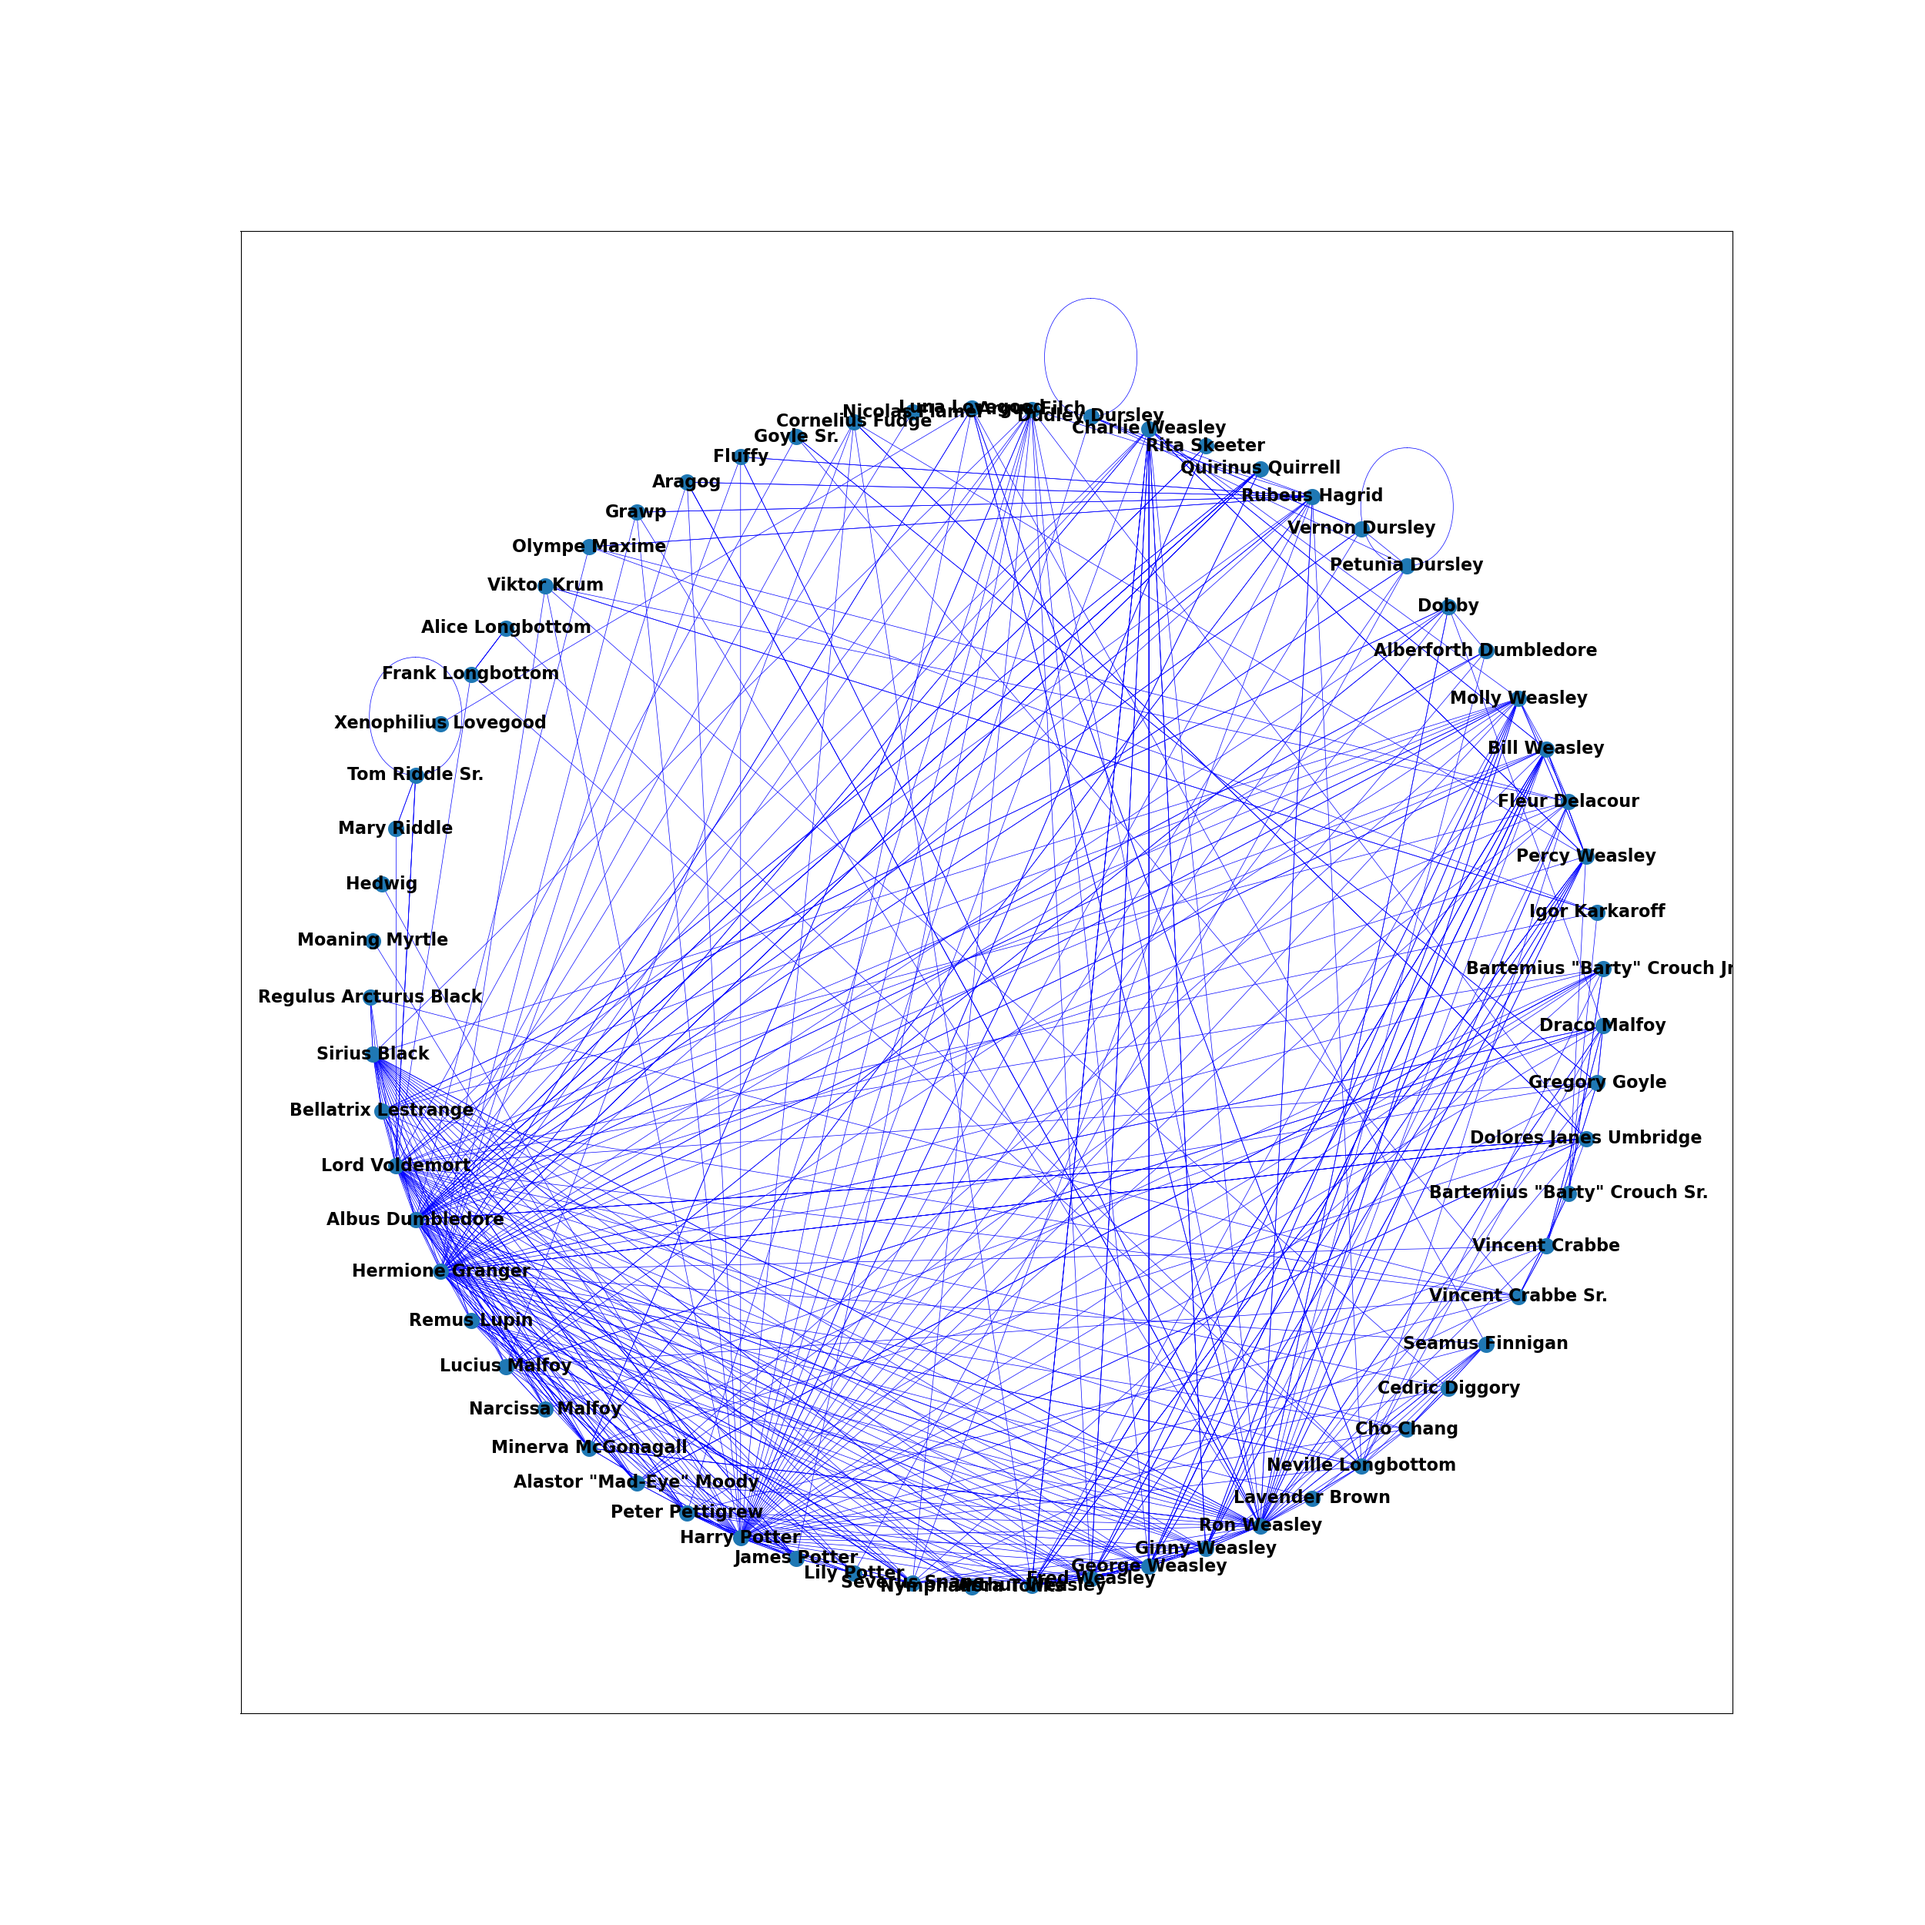
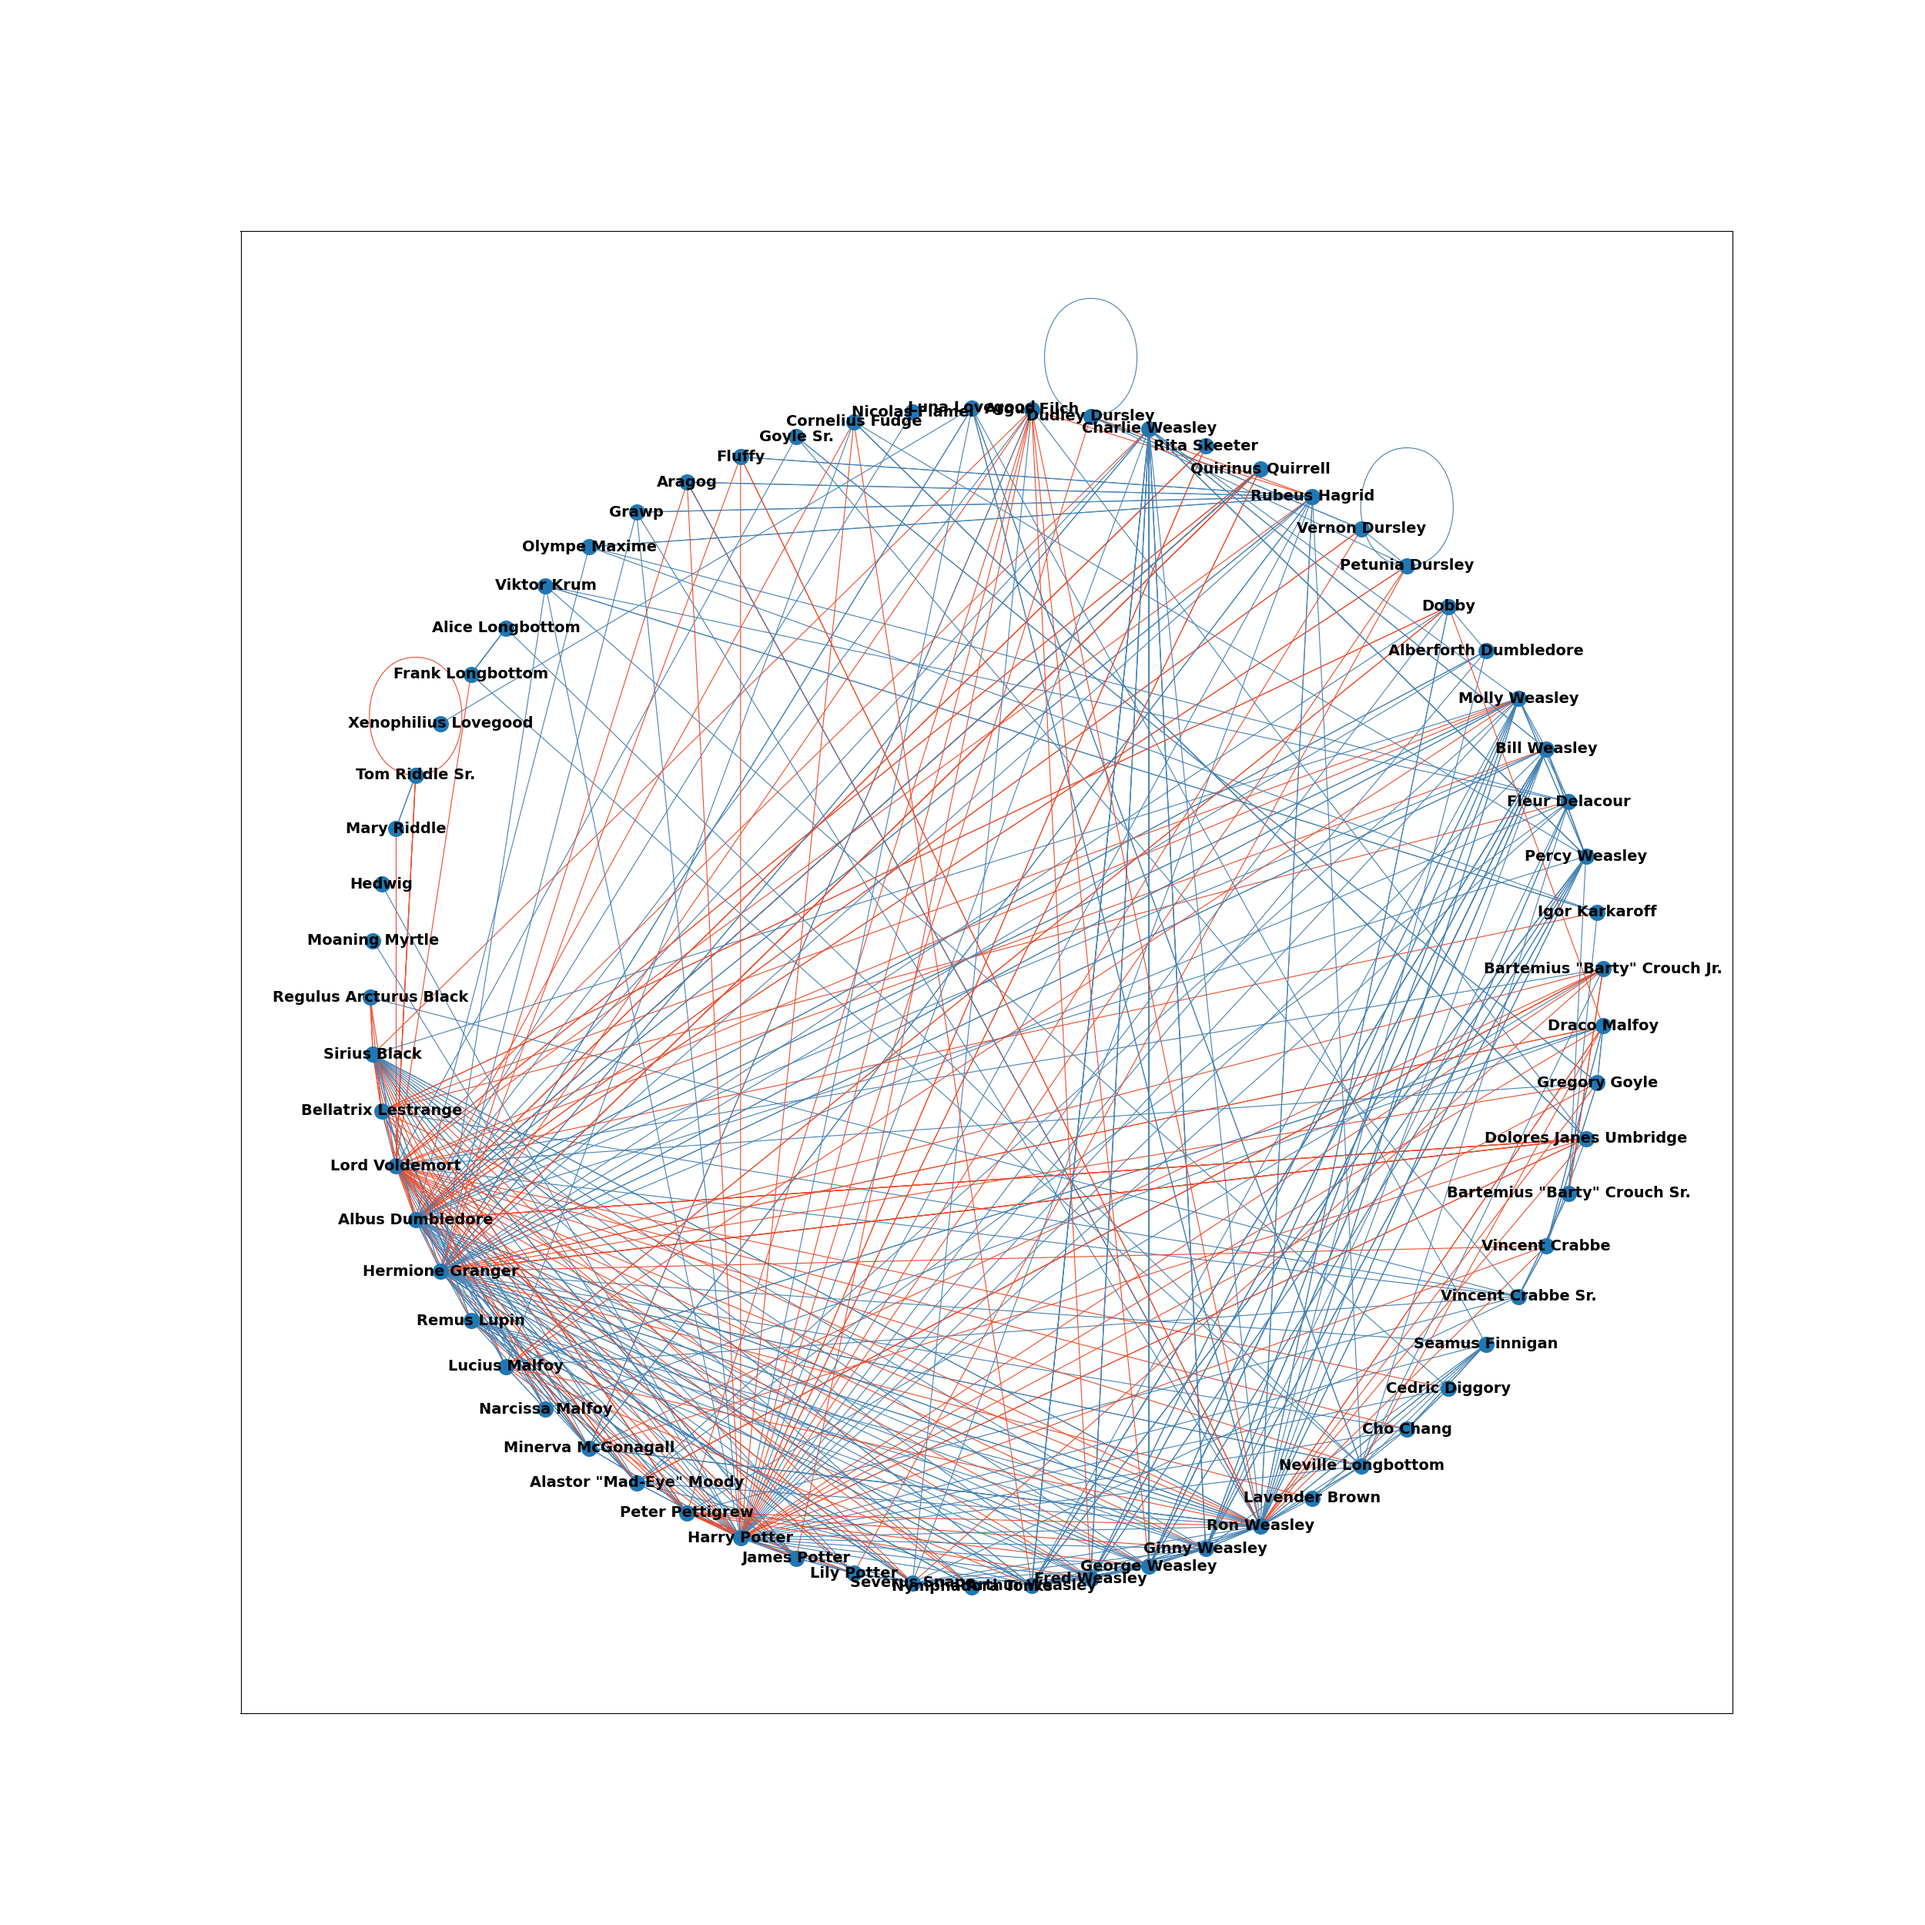
heatmap

Changed region(s): [[0.156, 0.1872, 0.9048, 0.8424], [0.2808, 0.4368, 0.312, 0.468]]

diff --git a/NetworkX.py b/NetworkX.py
@@ -5,35 +5,23 @@ import matplotlib.pyplot as plt
 import matplotlib.colors as mcolors
 import seaborn as sns
 
-def draw(G, pos, measure_name):
-    measures = nx.degree_centrality(graph)
-    if (measure_name == "Closeness"):
-        measures = nx.closeness_centrality(graph)
-    elif (measure_name == "Degree"):
-        measures = nx.degree_centrality(graph)
-    elif (measure_name == "Eigenvector"):
-        measures = nx.eigenvector_centrality(graph)
-
-    nodes = nx.draw_networkx_nodes(G, pos, node_size=250, cmap=plt.cm.plasma,
-                                   node_color=list(measures.values()),
-                                   nodelist=measures.keys())
-    nodes.set_norm(mcolors.SymLogNorm(linthresh=0.01, linscale=1))
-
-    # labels = nx.draw_networkx_labels(G, pos)
-    edges = nx.draw_networkx_edges(G, pos)
-
-    plt.title(measure_name)
-    plt.colorbar(nodes)
-    plt.axis('off')
-    plt.savefig("grafici/heatmap_" + measure_name)
-    plt.show()
-
-def draw_network(pos, type):
+def draw_network(pos, type, edges_weight):
     plt.figure(figsize=(25, 25))
     plt.figure(3, figsize=(25, 25))
+
+    options = ['#EE4B2B', '#4682B4']
+
+    colors = []
+
+    for i in range(len(edges_weight.tolist())):
+        if edges_weight[i] == -1:
+            colors.append(options[0])
+        else:
+            colors.append(options[1])
+
     nx.draw_networkx_nodes(graph, pos, node_size=200)
-    nx.draw_networkx_edges(graph, pos, edgelist=edges_list, edge_color='b', width=0.5)
-    nx.draw_networkx_labels(graph, pos, labels=mapping, font_size=16,
+    nx.draw_networkx_edges(graph, pos, edgelist=edges_list, edge_color=colors, width=0.8)
+    nx.draw_networkx_labels(graph, pos, labels=mapping, font_size=14,
                             font_family='sans-serif', font_weight='bold')
     plt.savefig("grafici/network_" + type)
     plt.show()
@@ -79,6 +67,29 @@ def plot_centrality_distribution(centrality_type, graph):
     plt.title(centrality_type + " Centrality Distribution", fontsize=36)
     plt.show()
 
+def draw(G, pos, measure_name):
+    measures = nx.degree_centrality(graph)
+    if (measure_name == "Closeness"):
+        measures = nx.closeness_centrality(graph)
+    elif (measure_name == "Degree"):
+        measures = nx.degree_centrality(graph)
+    elif (measure_name == "Eigenvector"):
+        measures = nx.eigenvector_centrality(graph)
+
+    nodes = nx.draw_networkx_nodes(G, pos, node_size=250, cmap=plt.cm.plasma,
+                                   node_color=list(measures.values()),
+                                   nodelist=measures.keys())
+    nodes.set_norm(mcolors.SymLogNorm(linthresh=0.01, linscale=1))
+
+    # labels = nx.draw_networkx_labels(G, pos)
+    edges = nx.draw_networkx_edges(G, pos)
+
+    plt.title(measure_name)
+    plt.colorbar(nodes)
+    plt.axis('off')
+    plt.savefig("grafici/heatmap_" + measure_name)
+    plt.show()
+
 characters = pd.read_csv("data/characters.csv")
 mapping = dict(zip(characters.id, characters.name))
 print(mapping)
@@ -97,13 +108,14 @@ for i in range(0, len(source_list)):
 graph = nx.Graph()
 graph.add_edges_from(edges_list)
 
-'''draw_network(nx.spring_layout(graph), "spring")
-draw_network(nx.kamada_kawai_layout(graph), "kamada")
-draw_network(nx.random_layout(graph), "random")
-draw_network(nx.shell_layout(graph), "shell")
-draw_network(nx.spiral_layout(graph), "spiral")
+draw_network(nx.spring_layout(graph), "spring", edges["type"])
+draw_network(nx.kamada_kawai_layout(graph), "kamada", edges["type"])
+draw_network(nx.random_layout(graph), "random", edges["type"])
+draw_network(nx.shell_layout(graph), "shell", edges["type"])
+draw_network(nx.spiral_layout(graph), "spiral", edges["type"])
 
-plot_centrality_by_key("Betweeness", graph)
+
+'''plot_centrality_by_key("Betweeness", graph)
 plot_centrality_by_key("Closeness", graph)
 plot_centrality_by_key("Degree", graph)
 plot_centrality_by_key("Eigenvector", graph)
@@ -111,11 +123,11 @@ plot_centrality_by_key("Eigenvector", graph)
 plot_centrality_distribution("Betweeness", graph)
 plot_centrality_distribution("Closeness", graph)
 plot_centrality_distribution("Degree", graph)
-plot_centrality_distribution("Eigenvector", graph)'''
+plot_centrality_distribution("Eigenvector", graph)
 
 draw(graph, nx.spring_layout(graph), 'Betweeness')
 draw(graph, nx.spring_layout(graph), 'Closeness')
 draw(graph, nx.spring_layout(graph), 'Degree')
-draw(graph, nx.spring_layout(graph), 'Eigenvector')
+draw(graph, nx.spring_layout(graph), 'Eigenvector')'''
 
 
